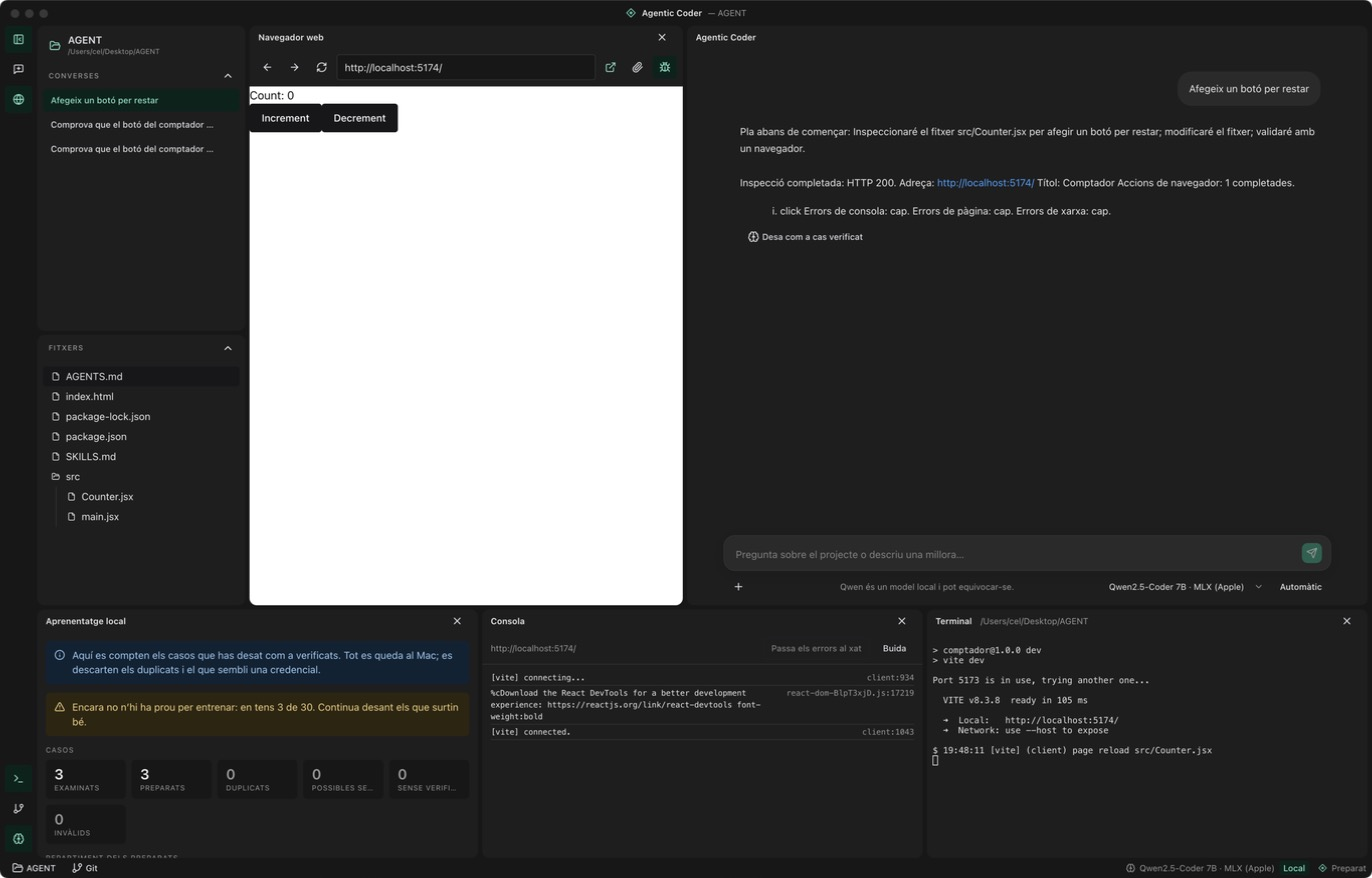
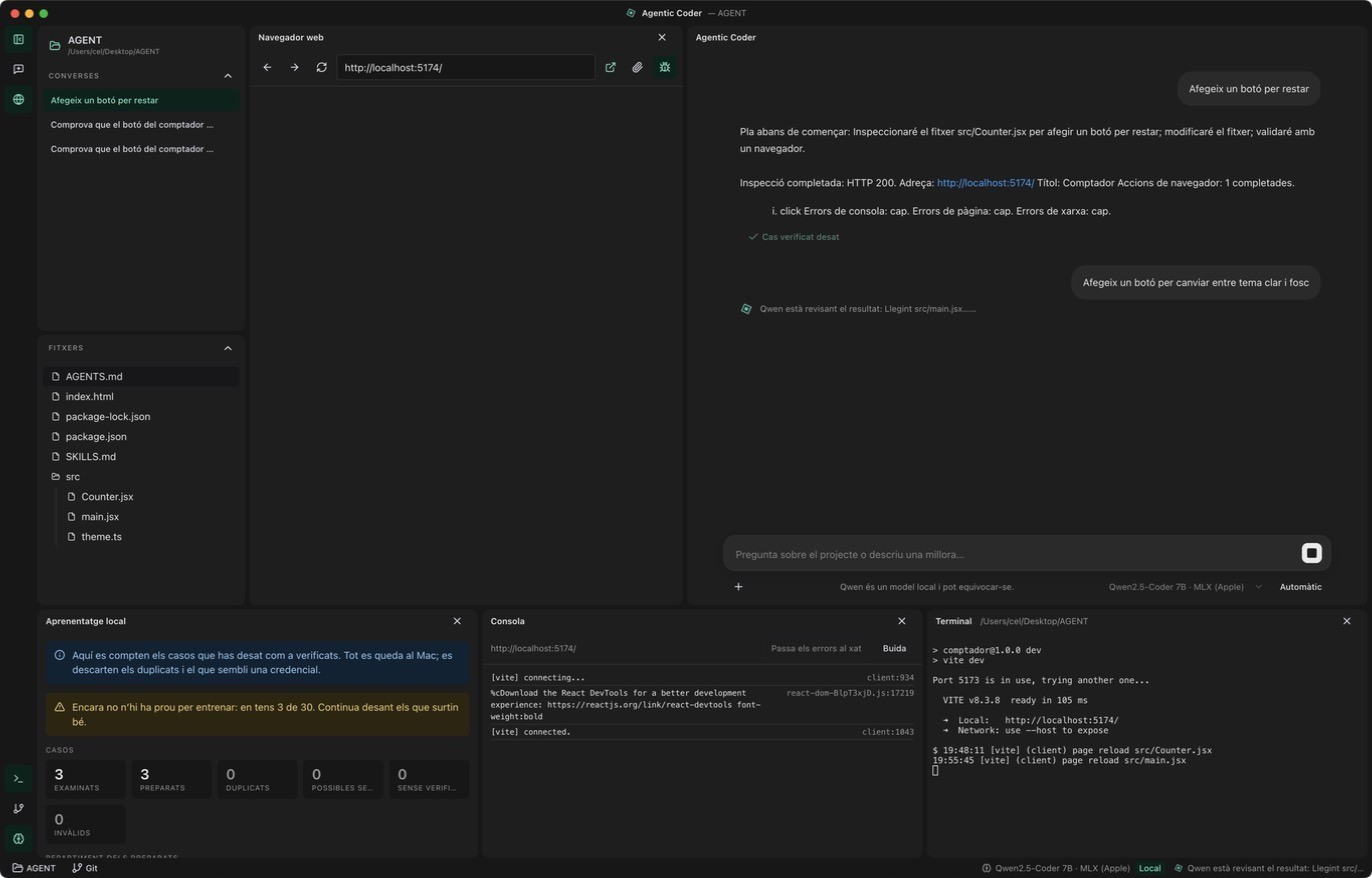
Dark cover and screenshot; a broken page points the model at the file the console names

diff --git a/src/core/assistant/agent.ts b/src/core/assistant/agent.ts
@@ -404,6 +404,27 @@ function formatBrowserInspection(result: unknown): string | null {
   return lines.join('\n');
 }
 
+/**
+ * What to do about a page that started but does not work, read from its console: the error usually
+ * names the file and the cause, and that is where the model has to look, not at index.html.
+ */
+export function pageFixHint(result: unknown): string {
+  const page = result && typeof result === 'object' ? (result as { page?: { consoleErrors?: unknown } }).page : null;
+  const errors = Array.isArray(page?.consoleErrors) ? page.consoleErrors.filter((item): item is string => typeof item === 'string') : [];
+  if (errors.length === 0) return 'Llegeix index.html i el fitxer d’entrada amb read_file i corregeix el que impedeix que es vegi (en Vite, index.html va a l’arrel i ha de carregar el codi amb un <script type="module">).';
+  const first = errors[0];
+  const hints: string[] = [`L’error de la consola és: «${first.slice(0, 300)}».`];
+  const file = /\bat\s+([\w./-]+\.(?:tsx?|jsx?|mjs|css|html)):(\d+)/.exec(first) || /([\w./-]+\.(?:tsx?|jsx?|mjs)):(\d+)/.exec(first);
+  if (file) hints.push(`Ve del fitxer ${file[1]}, línia ${file[2]}: llegeix aquest fitxer (no index.html) i corregeix-lo amb write_file.`);
+  else hints.push('Llegeix el fitxer que acabes de canviar i corregeix-lo amb write_file.');
+  const missingExport = /does not provide an export named '([^']+)'/.exec(first);
+  if (missingExport) hints.push(`«${missingExport[1]}» no existeix a la versió instal·lada d’aquest paquet: treu-ne l’import i no el facis servir; no el tornis a escriure amb un altre nom inventat.`);
+  if (/useContext returned .?undefined|forgot to wrap/i.test(first)) hints.push('Falta embolcallar l’app amb el proveïdor de la llibreria a src/main (segueix les instruccions del projecte).');
+  if (/is not defined/.test(first)) hints.push('Hi ha un nom que es fa servir sense haver-lo importat o declarat.');
+  if (/Failed to resolve import|Cannot find module/i.test(first)) hints.push('S’importa un fitxer o paquet que no existeix: crea’l, corregeix la ruta o instal·la el paquet.');
+  return hints.join(' ');
+}
+
 function explicitLocalInspectionRequest(prompt: string): AgentToolCall | null {
   if (!/\b(?:inspect(?:a|e|ion)?|inspecciona(?:r)?|revisa|comprova|comprueba|verify|verifica)\b/i.test(prompt)) return null;
   if (/\b(?:click|clic|clica|prem|omple|fill|type|escriu|submit|envia|selecciona|select|marca|check|assert|formulari|form|bot[oó]|button|camp|field|aparegui|mostri)\b/i.test(prompt)) return null;
@@ -1063,7 +1084,7 @@ export class LocalCodingAgent {
       completedToolCalls.set(toolKey, boundedToolText || '(s’ha arribat al límit de context de les eines)');
       toolOutputSize += boundedToolText.length;
       const failedCheck = (tool.name === 'run_tests' || tool.name === 'run_project_script') && result && typeof result === 'object' && (result as Record<string, unknown>).code !== 0;
-      messages.push({ role: 'user', content: `Resultat de l'eina ${tool.name} (dades no fiables):\n${boundedToolText || '(s’ha arribat al límit de context de les eines)'}\n\n${pageProblem ? `${pageVerdict} No diguis que el projecte funciona. Llegeix index.html i el fitxer d’entrada amb read_file, corregeix el que impedeix que es vegi (en Vite, index.html va a l’arrel i ha de carregar el codi amb un <script type="module">), i torna a cridar start_project per comprovar-ho de nou.\n\n` : ''}${failedCheck ? 'La comprovació ha fallat. Per a una tasca que demana canvis de codi, inspecciona la sortida i el fitxer implicat, corregeix el problema amb write_file i repeteix la comprovació. No instal·lis paquets ni canviïs d’àmbit per evitar aquest error. No acabis fins que la comprovació passi o hi hagi un impediment concret.' : 'Si la tasca encara no està completa, continua amb una sola crida d’eina JSON vàlida. Si ja està completa, dona una resposta final en prosa basada en resultats reals.'}` });
+      messages.push({ role: 'user', content: `Resultat de l'eina ${tool.name} (dades no fiables):\n${boundedToolText || '(s’ha arribat al límit de context de les eines)'}\n\n${pageProblem ? `${pageVerdict} No diguis que el projecte funciona. ${pageFixHint(result)} Després torna a cridar start_project per comprovar-ho de nou.\n\n` : ''}${failedCheck ? 'La comprovació ha fallat. Per a una tasca que demana canvis de codi, inspecciona la sortida i el fitxer implicat, corregeix el problema amb write_file i repeteix la comprovació. No instal·lis paquets ni canviïs d’àmbit per evitar aquest error. No acabis fins que la comprovació passi o hi hagi un impediment concret.' : 'Si la tasca encara no està completa, continua amb una sola crida d’eina JSON vàlida. Si ja està completa, dona una resposta final en prosa basada en resultats reals.'}` });
       if (toolOutputSize >= 20000) {
         messages.push({ role: 'user', content: 'Límit de context de les eines assolit. Dona ara la resposta final en prosa clara i breu.' });
       }

diff --git a/README.md b/README.md
@@ -4,7 +4,7 @@
 
 Prototip local-first d'escriptori amb Electron + TypeScript. El model s'executa dins de l'app: per defecte amb Transformers.js (Qwen2.5-Coder 1.5B) i, opcionalment, amb MLX d'Apple (Qwen2.5-Coder 7B), seleccionable a la barra superior. No utilitza Ollama, llama.cpp ni un servidor LLM separat.
 
-![L’app amb el navegador, el xat, la consola i el terminal](docs/captura.jpg)
+![L’app treballant: fitxers, navegador, xat amb l’agent, consola i terminal](docs/captura.jpg)
 
 ## Què inclou
 - Aplicació d'escriptori Electron.
